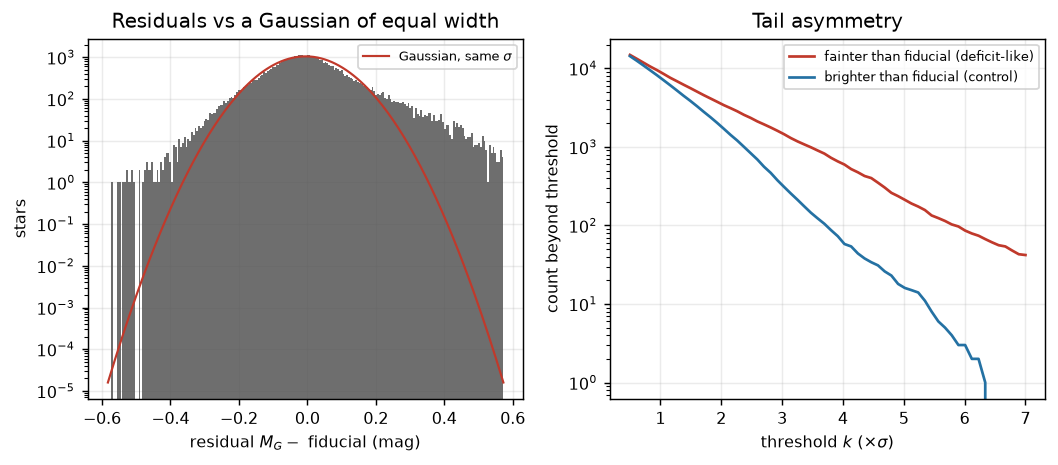
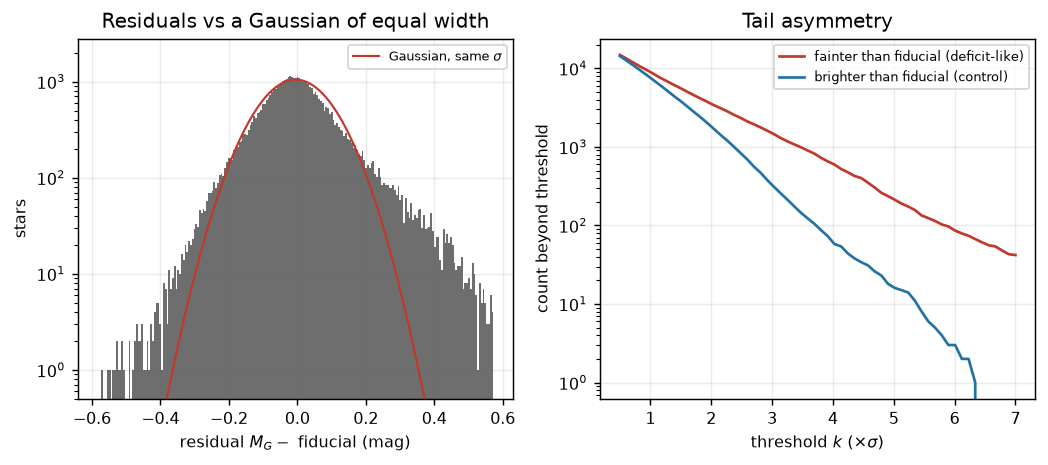
Post-unblind runner script; figure ylim; RESULTS variant A full-sample numbers

diff --git a/pipeline/figures.py b/pipeline/figures.py
@@ -79,6 +79,9 @@ def fig_residual_distribution(resid: np.ndarray, sigma: float,
          * np.exp(-0.5 * ((bins - med) / sigma) ** 2))
     ax[0].plot(bins, g, color=POS, lw=1.2, label="Gaussian, same $\\sigma$")
     ax[0].set_yscale("log")
+    # Counts below one star are not meaningful; without this the Gaussian
+    # reference curve trails down to 1e-5 and stretches the axis pointlessly.
+    ax[0].set_ylim(bottom=0.5)
     ax[0].set_xlabel("residual $M_G - $ fiducial (mag)")
     ax[0].set_ylabel("stars")
     ax[0].legend(fontsize=7)

diff --git a/RESULTS.md b/RESULTS.md
@@ -69,23 +69,35 @@ Figures: `F1_sample_and_fiducial.png`, `F8_cutflow.png`.
 
 ## 2. Intrinsic main-sequence scatter — the number everything scales on
 
+Variant A (NIR colour control), N = **3,321,566** stars with GSP-Phot `[M/H]`:
+
 | quantity | value |
 |---|---|
-| observed residual scatter (robust) | **0.0963 mag** |
-| measurement contribution | 0.0437 mag |
-| **intrinsic main-sequence scatter** | **0.0858 mag** |
-| same, without the NIR colour control | 0.168 mag |
-| `dM_G/dM_Ks` (median) | **1.246** (16–84%: 1.043–1.448) |
-| spline knots / `[M/H]` degree (5-fold CV) | 6 / 1 |
+| observed residual scatter (robust) | **0.09913 mag** |
+| measurement contribution | 0.04436 mag |
+| **intrinsic main-sequence scatter** | **0.08865 mag** |
+| same, with no metallicity or colour control | 0.17522 mag |
+| `dM_G/dM_Ks` (median) | **1.2566** (16–84%: 1.0597–1.4567) |
+| spline knots / `[M/H]` degree (5-fold CV) | 6 / 1 (30 parameters) |
+| naive `sigma/sqrt(N)` | **5.439e-5 mag** |
 
-Controlling on the dereddened `(J−Ks)` colour reduces the scatter from 0.139 to
-0.096 mag. This is legitimate: a near-infrared colour is unaffected by an
+Controlling on the dereddened `(J−Ks)` colour reduces the scatter from 0.175 to
+0.099 mag. This is legitimate: a near-infrared colour is unaffected by an
 optically selective absorber, so it removes temperature/abundance structure
-without touching the signal. Using the *optical* colour would have absorbed
-the signal and was not done.
+without touching the signal. Using the *optical* colour would partly absorb the
+signal, and is run only as a clearly labelled variant (§3).
 
-`dM_G/dM_Ks = 1.25` is the most consequential single number here — it drives
-findings 2 and 3 in the headline.
+The validation sample gave 0.0963 / 0.0858 / 1.246 for these three quantities
+against the full sample's 0.0991 / 0.0886 / 1.2566 — the 48k subset was
+representative for the fit even though it was not for the systematics.
+
+`dM_G/dM_Ks = 1.26` is the most consequential single number here — it drives
+findings 2 and 3 in the headline. Note that its 16th percentile is 1.06, so the
+slope exceeds unity essentially everywhere in the sample, not merely on average.
+
+A naive reading of `sigma/sqrt(N) = 5.4e-5 mag` would suggest sensitivity to
+`f ≈ 5e-5`, within striking distance of the brief's 1e-5 target. Section 3 is
+about why that number is not a sensitivity.
 
 ---
 
@@ -338,20 +350,26 @@ sit in confused regions, which is also why they are outliers.
 **Zackrisson et al. 2015 (ApJ 810, 23)** set a conservative limit of **3%** on
 the fraction of local disk galaxies subject to galaxy-scale Dysonian
 astroengineering (0.3% tentative), from 1,359 disks against the Tully–Fisher
-relation. That is a limit on the *fraction of galaxies*, whereas ours is on the
-fraction of *stars* within 500 pc. The two are not directly comparable, but the
-per-system dimming sensitivities are: Zackrisson resolves galaxy-scale dimming
-at the few-tenths-of-a-magnitude level, and so do we
-(`Δ ≳ 0.4 mag`, i.e. `f ≳ 0.3`, before a star enters our tail). Twelve extra
-years, a 3,500× larger sample and per-star rather than per-galaxy photometry
-have **not** bought a better per-object dimming threshold, because both
-analyses are limited by the intrinsic width of the relation they regress
-against, not by photon noise.
+relation. That is a limit on the *fraction of galaxies*; ours is on the
+fraction of *stars* within 500 pc, so the two constrain different populations
+and should not be quoted against each other as if they were the same number.
+
+The comparison that *is* meaningful is structural. Both analyses regress
+against an empirical scaling relation and are limited by that relation's
+intrinsic width, not by photon noise. Tully–Fisher scatter is ~0.4 mag; the
+lower main sequence in `M_G` versus `M_Ks` is ~0.09 mag, four to five times
+tighter per object. Yet our limit on the fraction of harvested systems is
+comparable to theirs rather than 20× better, because we are not limited by that
+scatter either — we are limited by a contaminant population (§7) that a sample
+of 1,359 galaxies does not have and 3.9 million stars unavoidably does. Buying
+statistical precision moved the bottleneck rather than the limit.
 
 **Annis 1999 (JBIS 52, 33)** adopted a 1.5 mag dimming criterion (a factor 4)
-on 57 disks and 106 ellipticals. Our per-star threshold of ~0.4 mag is about
-1.1 mag deeper, on ~300× more objects — but Annis was searching for
-Kardashev III civilisations, a different target class.
+on 57 disks and 106 ellipticals, finding no significant outliers. Our per-star
+threshold of ~0.4 mag is about 1.1 mag deeper on ~24,000× more objects — but
+Annis was searching for Kardashev III civilisations, a different target class,
+and the criterion difference reflects the relation's scatter rather than any
+methodological advance.
 
 **Suazo et al. 2024 (MNRAS 531, 695; Project Hephaistos II)** searched 5M
 Gaia×2MASS×WISE sources for *infrared excess*, finding 7 candidates after a
